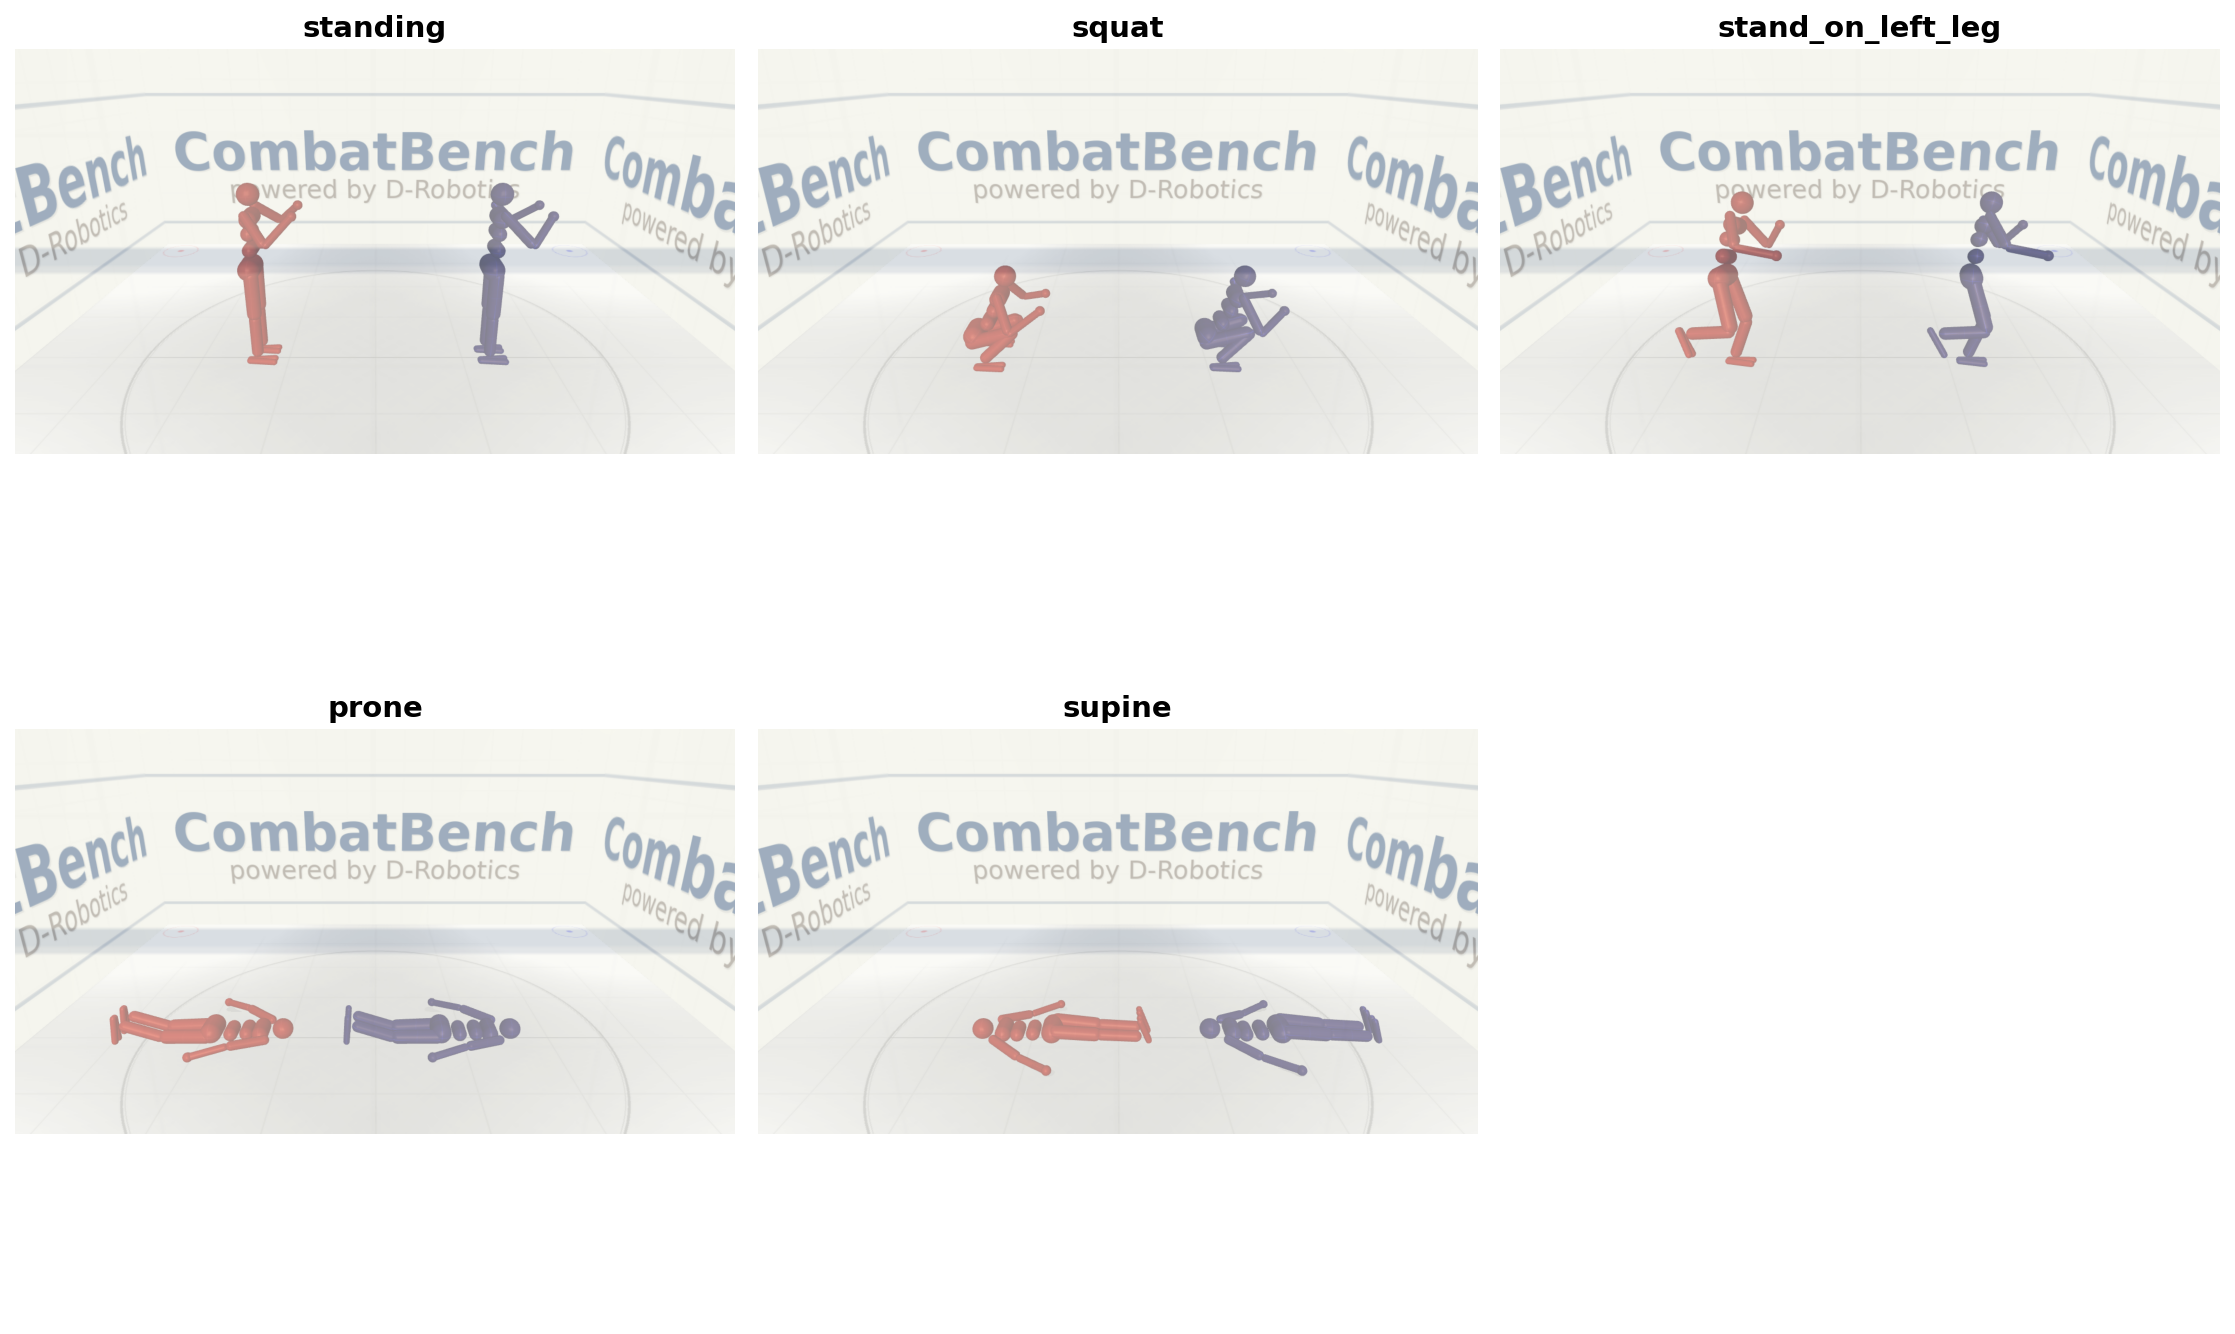
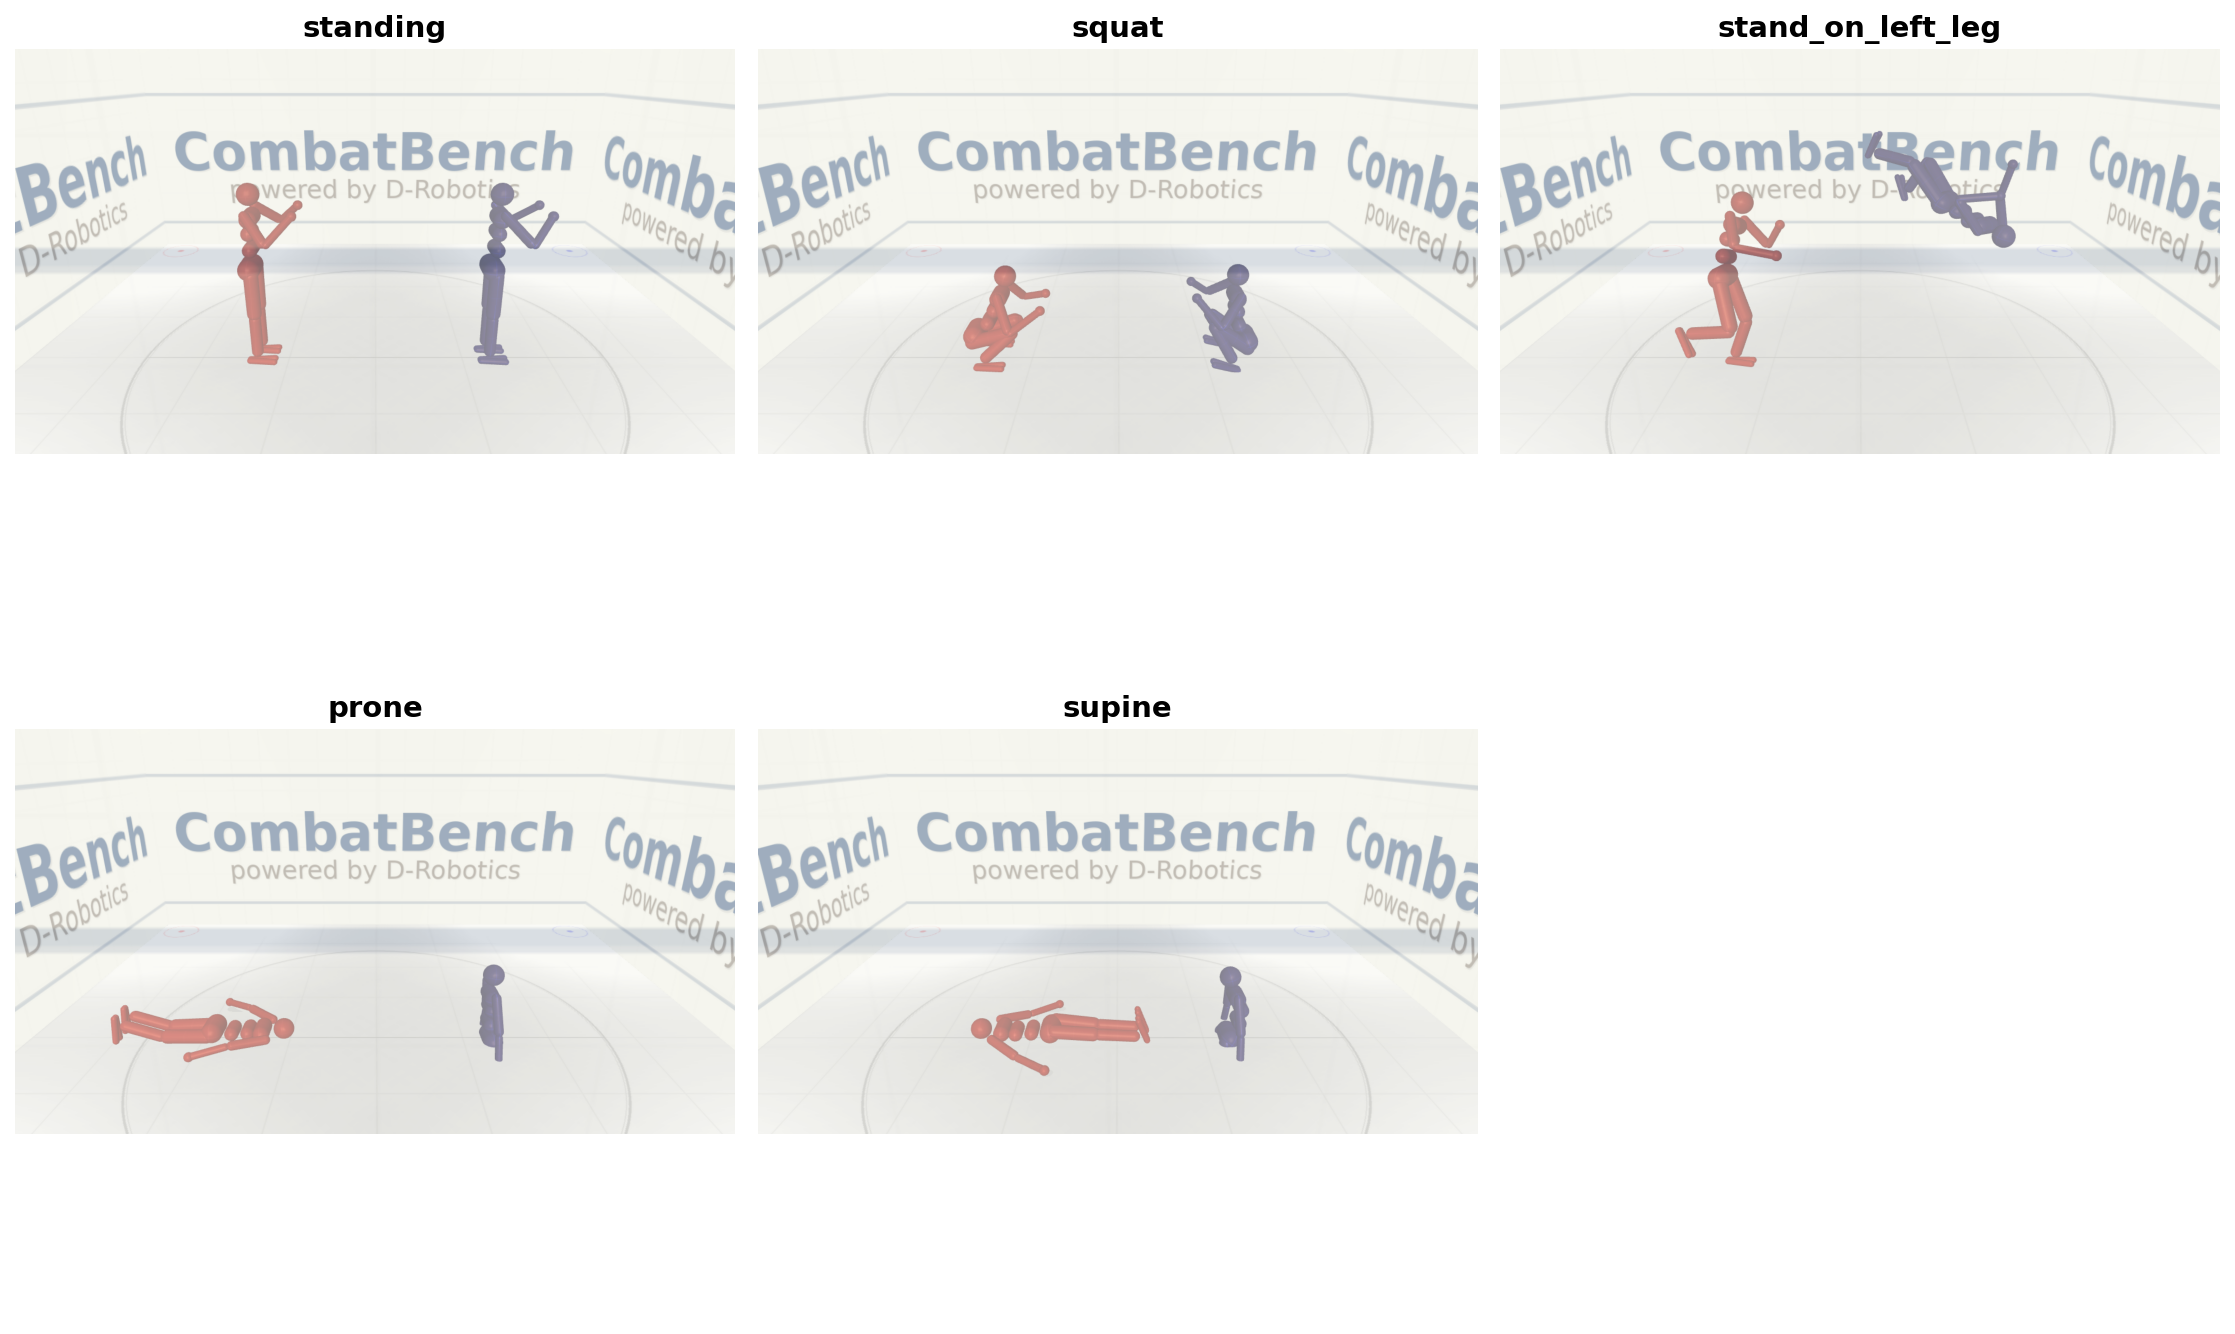
fix: rotate robot_b 180° to face robot_a
- Apply 180° rotation around z-axis to robot_b's root quaternion
- This ensures blue robot faces red robot (face-to-face)
- Regenerate all pose images with correct orientation

diff --git a/envs/humanoid21/simulator.py b/envs/humanoid21/simulator.py
@@ -628,7 +628,25 @@ class MujocoCombatSimulator(BaseSimulator):
             self.data.qpos[root_qpos_adr:root_qpos_adr+3] = root_pos
 
             # 设置根部姿态
-            self.data.qpos[root_qpos_adr+3:root_qpos_adr+7] = pose_config['root_quat']
+            # robot_b 需要旋转 180° 绕 z 轴，使其面向 robot_a
+            root_quat = pose_config['root_quat'].copy()
+            if robot_id == 'robot_b':
+                # 应用 180° 旋转绕 z 轴: q_rot = [0, 0, 0, 1]
+                # 四元数乘法: q_new = q_rot * q_original
+                q_rot = np.array([0, 0, 0, 1], dtype=np.float64)  # [w,x,y,z]
+                q_original = np.array([root_quat[1], root_quat[2], root_quat[3], root_quat[0]], dtype=np.float64)  # [x,y,z,w] for scipy
+
+                # 手动计算四元数乘法
+                # q_new = q_rot * q_original
+                # = [0,0,0,1] * [wx,wy,wz,ww]
+                w = q_rot[0] * q_original[3] - q_rot[1] * q_original[0] - q_rot[2] * q_original[1] - q_rot[3] * q_original[2]
+                x = q_rot[0] * q_original[0] + q_rot[1] * q_original[3] + q_rot[2] * q_original[1] - q_rot[3] * q_original[0]
+                y = q_rot[0] * q_original[1] - q_rot[1] * q_original[0] + q_rot[2] * q_original[3] + q_rot[3] * q_original[2]
+                z = q_rot[0] * q_original[2] - q_rot[1] * q_original[1] + q_rot[2] * q_original[0] + q_rot[3] * q_original[1]
+
+                root_quat = np.array([w, x, y, z], dtype=np.float32)
+
+            self.data.qpos[root_qpos_adr+3:root_qpos_adr+7] = root_quat
 
             # 设置关节位置
             self.data.qpos[qpos_indices] = pose_config['joint_pos']
